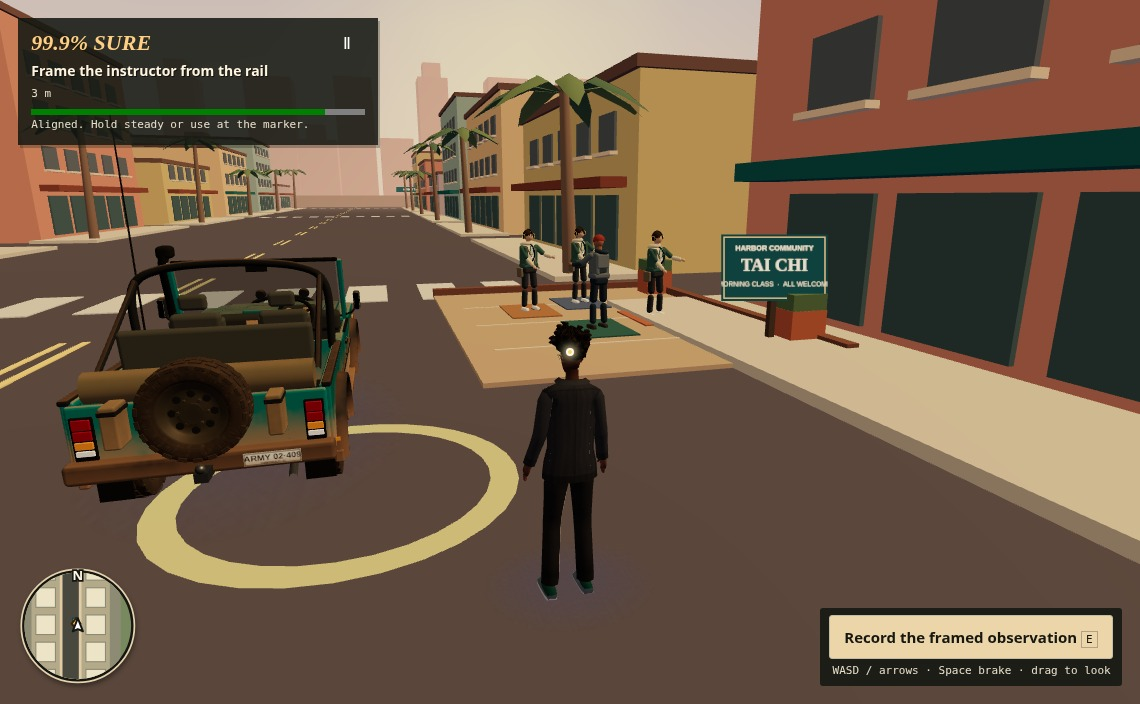
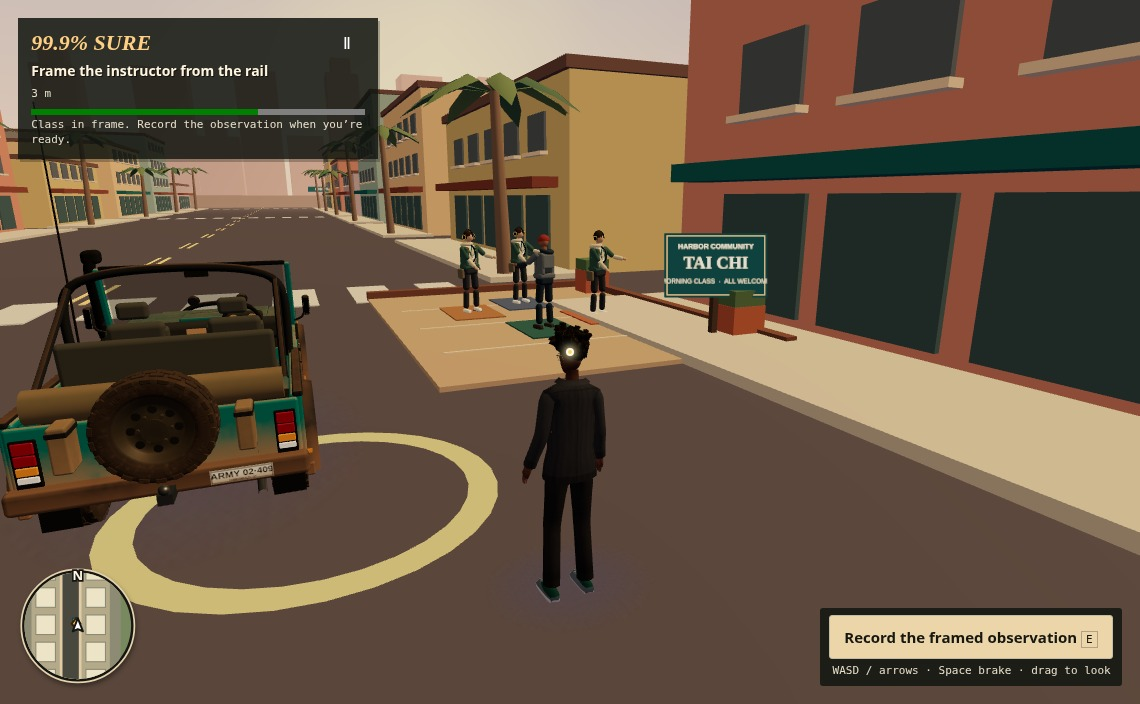
Let players frame and record the courtyard on purpose

diff --git a/src/game/campaign/CityCampaignLayer.ts b/src/game/campaign/CityCampaignLayer.ts
@@ -149,7 +149,8 @@ export class CityCampaignLayer implements GameLayer {
     const dx = point.x - x,
       dz = point.z - z;
     const heading = this.game.camera.yaw;
-    return Math.sin(heading) * dx + Math.cos(heading) * dz >= 0.84 * Math.hypot(dx, dz);
+    const minimum = this.courtyard ? 0.98 : 0.84;
+    return Math.sin(heading) * dx + Math.cos(heading) * dz >= minimum * Math.hypot(dx, dz);
   }
   get subject(): Point | null {
     const task = this.task;
@@ -609,13 +610,13 @@ export class CityCampaignLayer implements GameLayer {
     if (task.kind === "photo") {
       const framed =
         !this.driving && this.gap < 4.2 && this.photoAimed && this.game.player.speed < 0.65;
-      this.progress = framed ? this.progress + dt : 0;
+      this.progress = framed ? Math.min(2.5, this.progress + dt) : 0;
       if (framed && this.record.episode === 1 && !this.heardPulse) {
         this.heardPulse = true;
         this.game.audio?.radioCall(7);
       }
       if (!framed) this.heardPulse = false;
-      if (this.progress >= 2.5) this.logEvidence(task.evidence);
+      if (!this.courtyard && this.progress >= 2.5) this.logEvidence(task.evidence);
     }
     if (task.kind === "reading") {
       this.progress =

diff --git a/tests/campaign-complete-city.test.ts b/tests/campaign-complete-city.test.ts
@@ -74,6 +74,24 @@ describe("San Fierro standalone campaign", () => {
     }
     expect(parseCityRecord('{"version":3,"episode":5}')).toEqual(emptyCityRecord());
   });
+  test("the classroom needs an intentional exposure with the class in frame", () => {
+    const c = setup(stage(0, "Frame the instructor from the rail"));
+    try {
+      expect(c.m.photoAimed).toBe(false);
+      const subject = c.m.subject!;
+      const player = c.game.player.position;
+      c.game.camera.yaw = Math.atan2(subject.x - player.x, subject.z - player.z);
+      expect(c.m.photoAimed).toBe(true);
+      for (let frame = 0; frame < 180; frame++) c.m.fixedStep(1 / 60);
+      expect(c.m.task?.title).toBe("Frame the instructor from the rail");
+      expect(c.m.progress).toBe(2.5);
+      c.game.input.keyDown("KeyE");
+      c.game.frame(1 / 60, { simulate: true, camera: null, establishing: false });
+      expect(c.m.task?.title).toBe("The courtyard class");
+    } finally {
+      c.dispose();
+    }
+  });
   test("Daily Bread imports both choices once and leaves the older city, Pine Gap and After Hours files alone", () => {
     const initial = stage(0, "Daily Bread");
     const files = new Map([

diff --git a/src/components/game/CityCampaign.tsx b/src/components/game/CityCampaign.tsx
@@ -96,7 +96,9 @@ function CampaignHUD({
                 />
                 <small className="block">
                   {m.photoAimed
-                    ? "Aligned. Hold steady or use at the marker."
+                    ? m.courtyard
+                      ? "Class in frame. Record the observation when you’re ready."
+                      : "Aligned. Hold steady or use at the marker."
                     : m.courtyard
                       ? "At the marker, turn toward the practice mats on the sidewalk."
                       : "At the marker, drag to face the subject to the north."}
